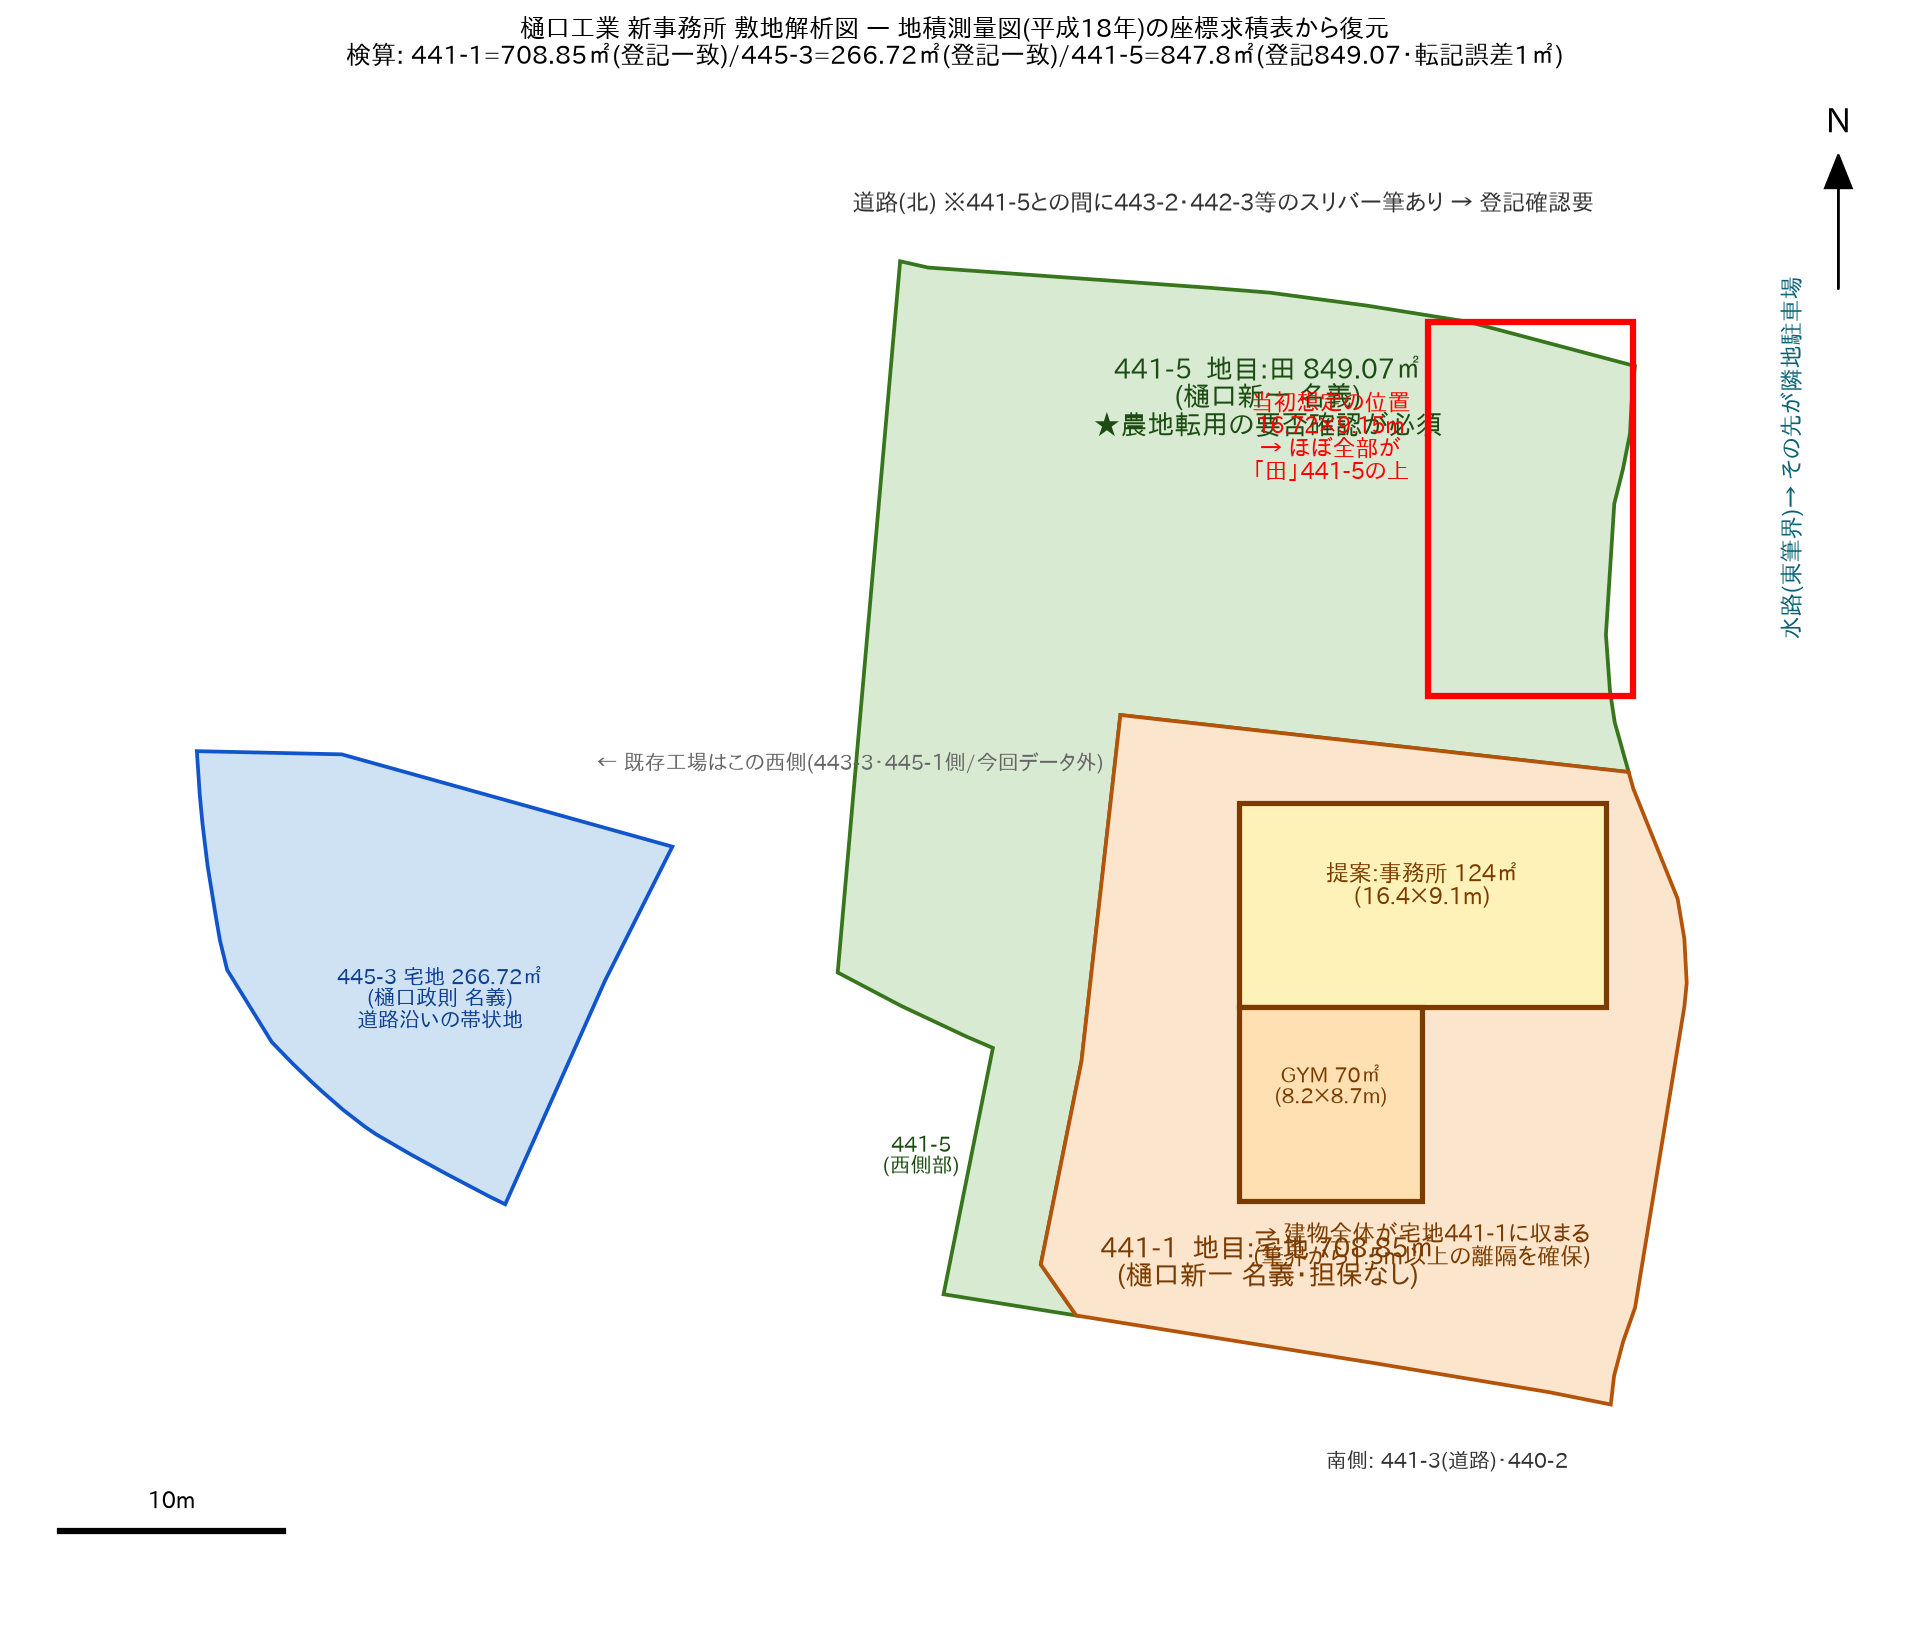
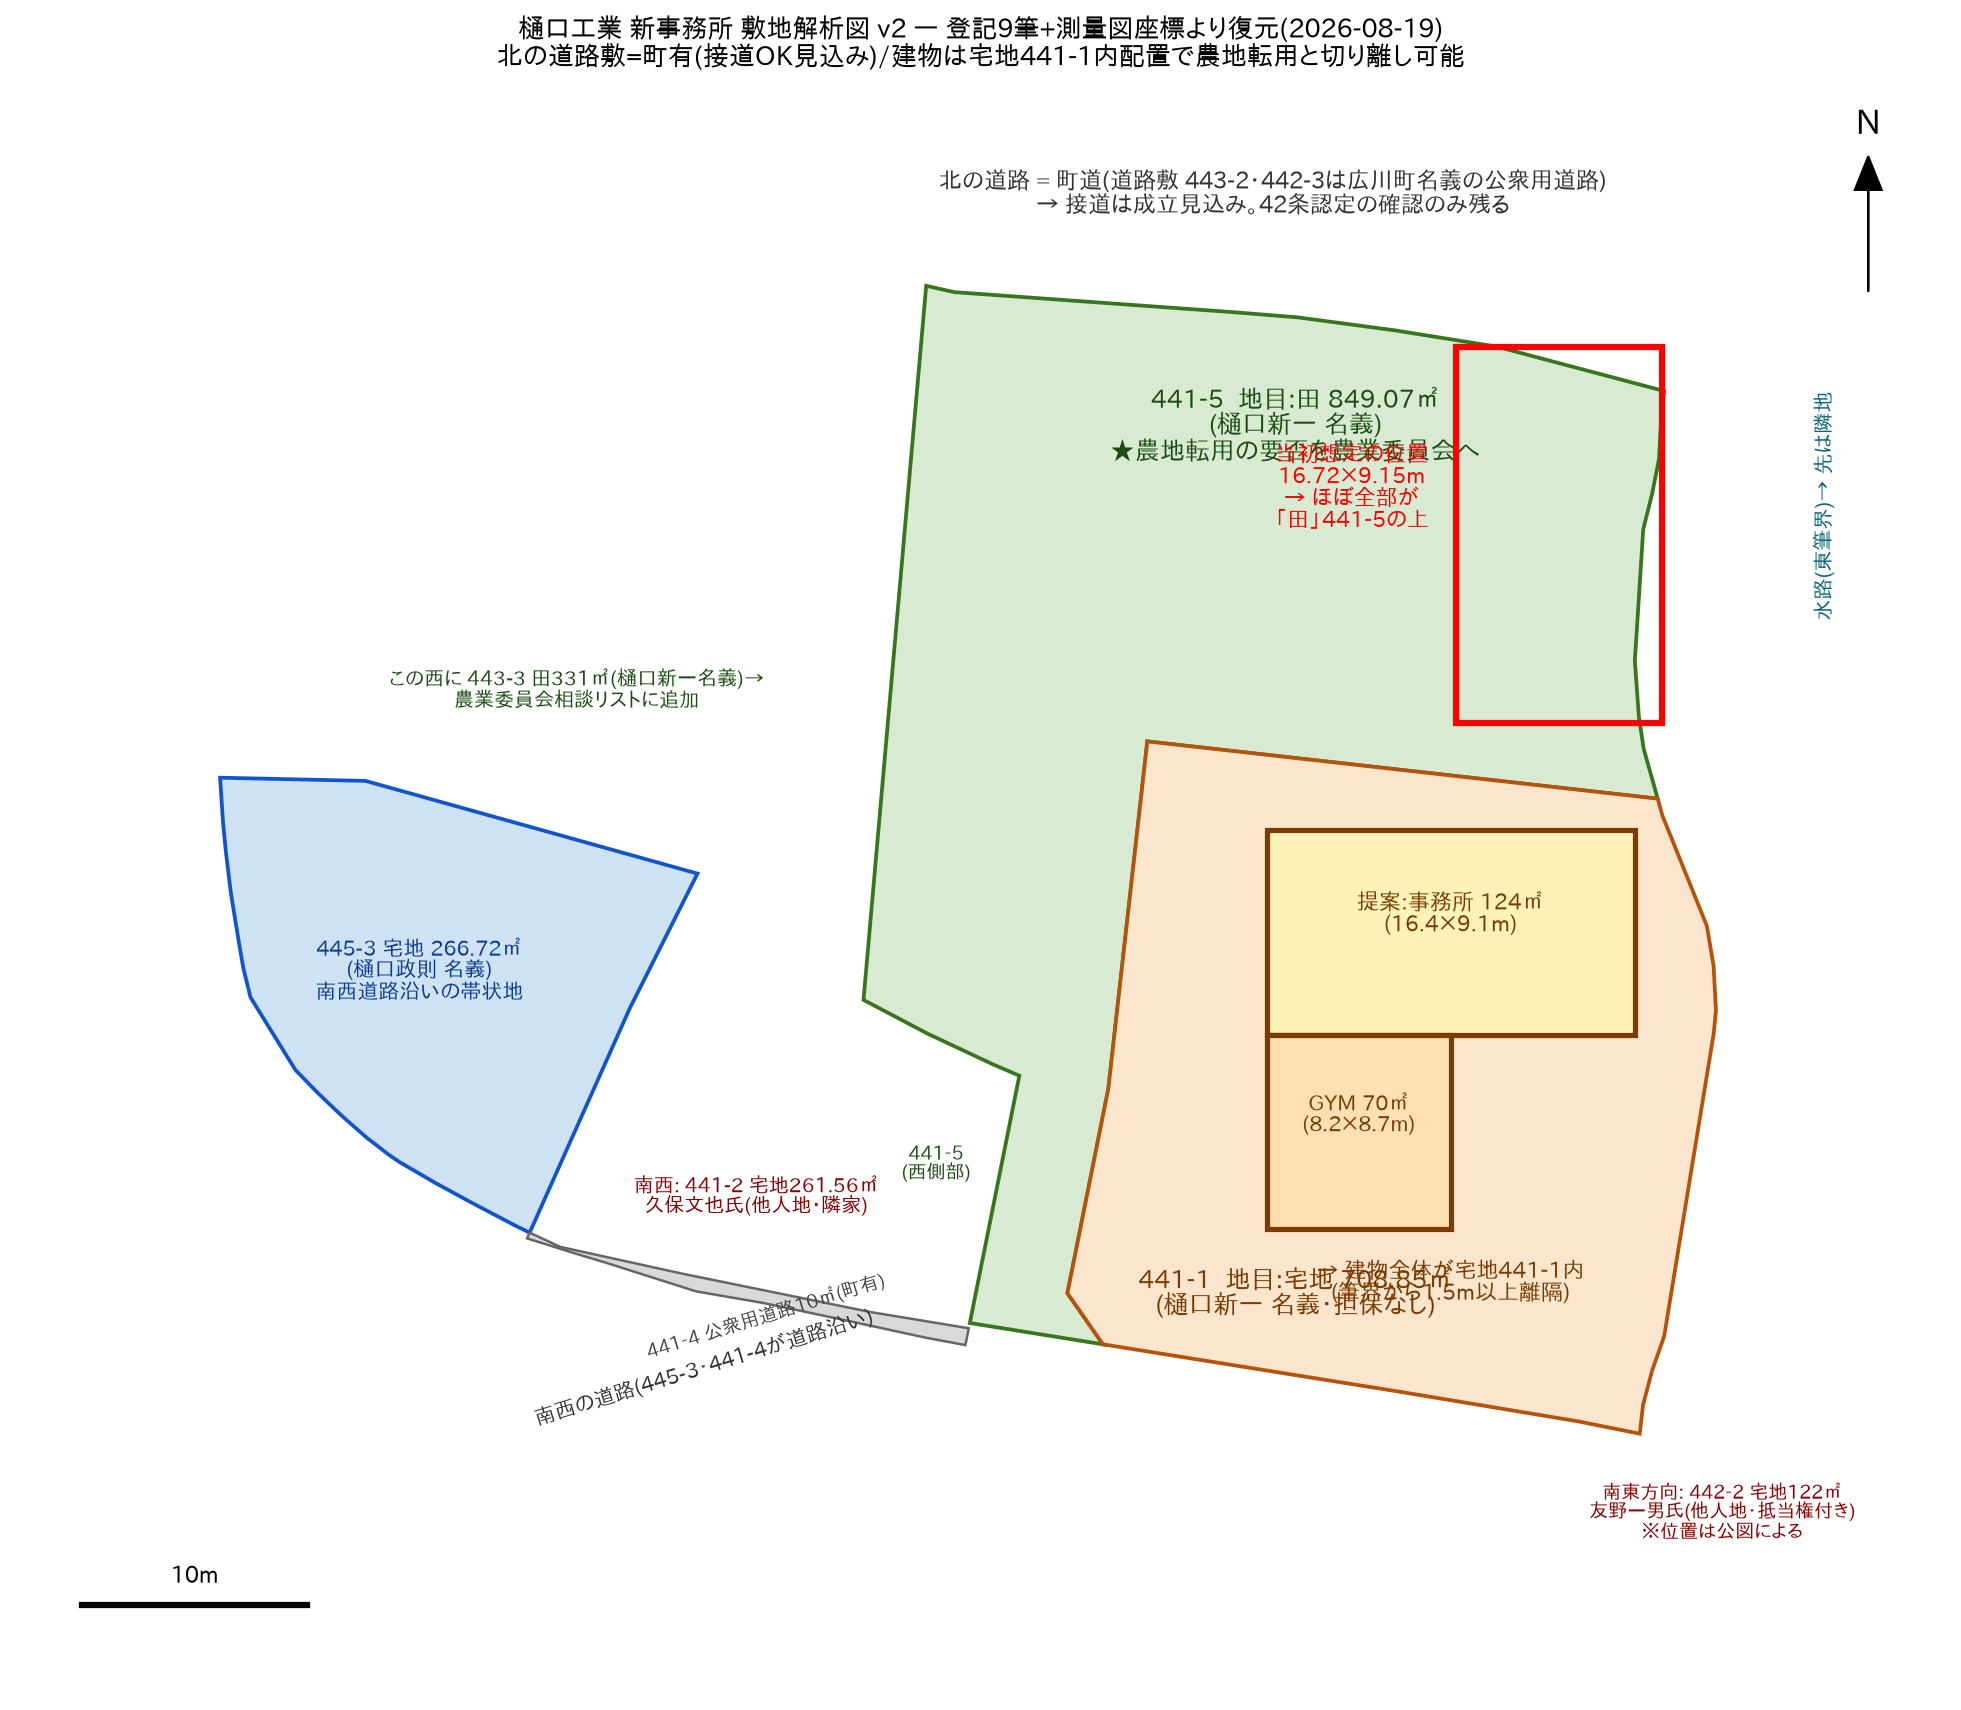
Complete parcel survey: road strips are town-owned, two neighbor parcels identified
Second batch of register documents resolves all 9 parcels: the north
road bed (443-2, 442-3) and a southwest sliver (441-4) are town-owned
public road, so road frontage is secured pending only the Article 42
designation check. 441-2 (Kubo) and 442-2 (Tomono, mortgaged) are
third-party land to keep out of the building site; 443-3 is another
Higuchi-owned parcel still registered as paddy. Site figure updated
with ownership overlay.

Claude-Session: https://claude.ai/code/session_017X6YXpi95KCW9xRKFYathg

diff --git a/事務所セルフビルド/11_敷地調査_登記まとめ.md b/事務所セルフビルド/11_敷地調査_登記まとめ.md
@@ -1,19 +1,37 @@
-# 11. 敷地調査 — 登記・測量図の解析結果(2026-08-19)
+# 11. 敷地調査 — 登記・測量図の解析結果(2026-08-19 第2便で全9筆確定)
 
-提供資料: 土地全部事項3通(441-1/441-5/445-3)、地積測量図2件(441-1・441-5/445-3・445-4)、法14条地図(公図・字餅田 U35-1)。
+提供資料: 土地全部事項9筆分、地積測量図4件、法14条地図(公図・字餅田 U35-1)。
 地積測量図の座標求積表から筆界を復元し検算済み(441-1と445-3は登記面積と完全一致、441-5は転記誤差1㎡)。
 → 復元図: `図面/敷地解析図.png`
 
 ---
 
-## 1. 筆別の確定情報
+## 1. 筆別の確定情報(全9筆)
+
+### 樋口家の土地
 
 | 地番 | 地目 | 地積 | 所有者(登記名義) | 担保 | 備考 |
 |---|---|---:|---|---|---|
 | **441-1** | **宅地** | 708.85㎡(214坪) | 樋口新一(個人) | なし(R2抹消済) | H19に田→宅地へ地目変更済み。**建築の本命地** |
-| **441-5** | **田** | 849.07㎡(257坪) | 樋口新一(個人) | — | H18に441-1から分筆。**登記上は農地のまま** |
+| **441-5** | **田** | 849.07㎡(257坪) | 樋口新一(個人) | — | H18に441-1から分筆。**登記上は農地のまま**。北側ヤード(🟥含む) |
+| **443-3** | **田** | 331㎡(100坪) | 樋口新一(個人) | なし(H12抹消済) | 441-5の西側。**これも登記上は農地** |
 | 445-3 | 宅地 | 266.72㎡(81坪) | 樋口政則(個人) | なし(H12抹消済) | 南西の道路沿い帯状地。S56贈与取得 |
-| 445-4 | (分筆片) | 9.17㎡ | — | — | H18に445-3から分筆(道路関係とみられる) |
+| 445-4 | (分筆片) | 9.17㎡ | — | — | H18に445-3から分筆(道路関係) |
+
+### 道路敷(広川町名義・公衆用道路)
+
+| 地番 | 地積 | 経緯 | 意味 |
+|---|---:|---|---|
+| **443-2** | 70.77㎡ | S52に町が買収(道路拡幅) | **北の道路の道路敷** → 敷地は町道に接する |
+| **442-3** | 53㎡ | S52に町が買収 | 同上(北の道路敷) |
+| **441-4** | 10.15㎡ | H1売買で町へ | 南西の道路敷 |
+
+### 他人の土地(隣地)
+
+| 地番 | 地目 | 地積 | 所有者 | 注意 |
+|---|---|---:|---|---|
+| **441-2** | 宅地 | 261.56㎡ | 久保文也氏(441番地の2 在住=隣家) | 南西側の隣地。境界50cm+目隠し配慮の対象 |
+| **442-2** | 宅地 | 122㎡ | 友野一男氏(久留米市・友野建設関係) | 南東方向(位置は公図による)。**抵当権(筑邦銀行)が現存** → 敷地に含めない・越境注意 |
 
 所在: 福岡県八女郡広川町大字吉常字餅田。
 
@@ -42,9 +60,10 @@
 - 白地地域の形態制限(福岡県指定): **容積率200%・建ぺい率60〜70%**(広川町の適用値は要確認)。
   441-1単独を敷地(708.85㎡)としても建築面積194㎡=建ぺい率約27%で全く問題なし。
 
-### ③ 接道
-- 建物を441-1に置く場合、道路までの間に441-5(+スリバー筆)を挟む。**確認申請の「敷地」を441-1+441-5(+必要なスリバー筆)で一団として設定**し、道路まで接道させるのが素直。
-- そのために**443-2・442-3・442-2・443-3・441-2・441-4の登記(所有者・地目)を追加取得**して、道路際の権利関係を確定させる。
+### ③ 接道(第2便で解決)
+- **北の道路の道路敷(443-2・442-3)は広川町名義の公衆用道路**と判明。敷地(441-5)は町道に直接接する。
+- 確認申請の「敷地」は**441-1+441-5の一団**で設定し、北の町道に接道させる。
+- 残る確認は**この町道が建築基準法42条の道路(認定道路)であること**の1点のみ(町建設課で道路台帳を確認。拡幅買収までしている道なので認定道路の可能性が高い)。
 
 ### ④ 土地名義
 - 441-1・441-5は新一氏、445-3は政則氏の**個人名義**。会社(樋口工業有限会社)が建てるなら**土地使用貸借または賃貸借契約を書面化**しておく(税務・融資・登記・相続対策のすべてで効く)。
@@ -54,15 +73,15 @@
 
 ## 4. 更新後の宿題
 
-- [ ] ★最優先: **広川町 農業委員会に441-5の扱いを相談**(農振農用地の内外/現況ヤードの扱い/転用 or 非農地判断の道筋と所要期間)
-- [ ] 道路際スリバー筆等の登記追加取得(443-2・442-3・442-2・443-3・441-2・441-4)+北の道路の種別(建築基準法42条道路か)を町で確認
-- [ ] 白地地域の建ぺい率(60か70か)を町に確認
+- [x] ~~道路際スリバー筆等の登記追加取得~~ → **完了(2026-08-19 第2便)**。443-2・442-3・441-4=町有道路敷/441-2=久保氏/442-2=友野氏/443-3=新一氏の田
+- [ ] ★最優先: **広川町 農業委員会に441-5(+443-3)の扱いを相談**(農振農用地の内外/現況ヤードの扱い/転用 or 非農地判断の道筋と所要期間)
+- [ ] 北の町道の42条認定を町建設課の道路台帳で確認(+白地の建ぺい率が60か70かも同時に)
 - [ ] 会社と地主(新一氏・必要なら政則氏)の土地使用貸借契約の書面化
 - [ ] 水路管理者(町)に離隔・放流基準を確認
 - [ ] 既存工場の確認済証・検査済証の有無
 - [ ] 給排水・電気の引込位置と容量
 - [ ] 地盤データ(無ければ441-1上でSWS)
-- [ ] 境界杭の現地確認(座標復元図と照合)
+- [ ] 境界杭の現地確認(座標復元図と照合)。特に南東側の442-2(友野氏)との筆界
 - [ ] GYM機材の既保有/新規購入の仕分け
 
 > 参考(Web確認, 2026-08-19): 広川町は筑後都市圏の非線引き都市計画区域・用途地域指定なし。

diff --git a/事務所セルフビルド/00_前提条件と決定事項.md b/事務所セルフビルド/00_前提条件と決定事項.md
@@ -66,9 +66,9 @@
 - [x] ~~🟥のスクラップ・資材置場の移設先~~ → 解決済み(2026-08)
 - [x] ~~西ヤードの白バン駐車の再配置~~ → 解決済み(2026-08)
 - [x] ~~登記・公図・測量図の取得と解析~~ → 完了(2026-08-19)。結果は `11`
-- [ ] ★最優先: **広川町農業委員会に441-5(田)の扱いを相談**(農振内外・転用/非農地判断の道筋と期間)
-- [ ] 道路際スリバー筆(443-2・442-3・442-2・443-3・441-2・441-4)の登記追加取得+道路種別の確認
-- [ ] 白地の建ぺい率適用値(60か70か)を町に確認
+- [x] ~~道路際スリバー筆の登記確認~~ → 完了(第2便)。**北の道路敷は町有=接道OK見込み**。441-2(久保氏)・442-2(友野氏)は他人地
+- [ ] ★最優先: **広川町農業委員会に441-5(+443-3)の田の扱いを相談**(農振内外・転用/非農地判断の道筋と期間)
+- [ ] 北の町道の42条認定を道路台帳で確認+白地の建ぺい率適用値(60か70か)を町に確認
 - [ ] 会社と地主(新一氏・政則氏)の土地使用貸借契約の書面化
 - [ ] 水路管理者(町)に離隔・雨水放流基準を確認
 - [ ] 既存工場の確認済証・検査済証の有無
